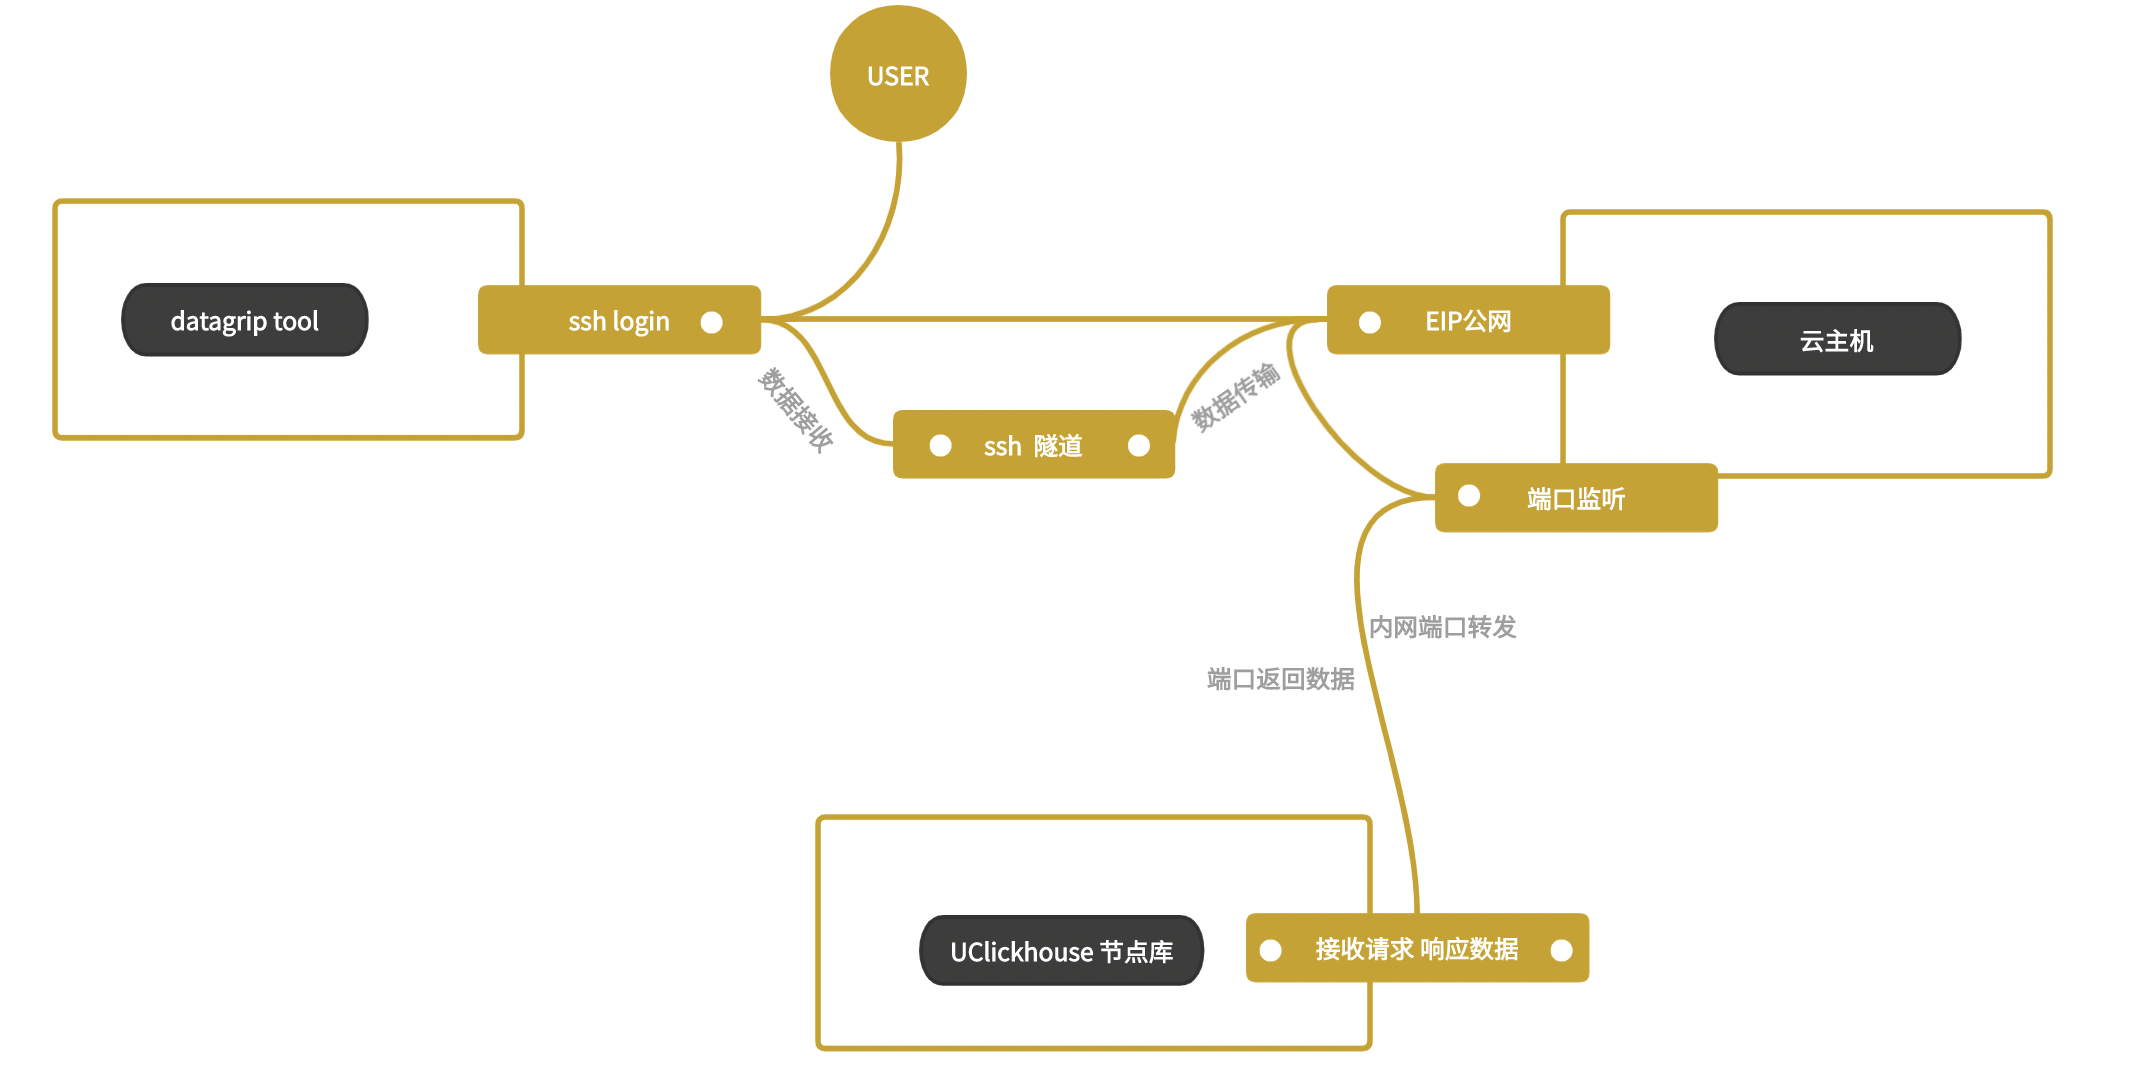
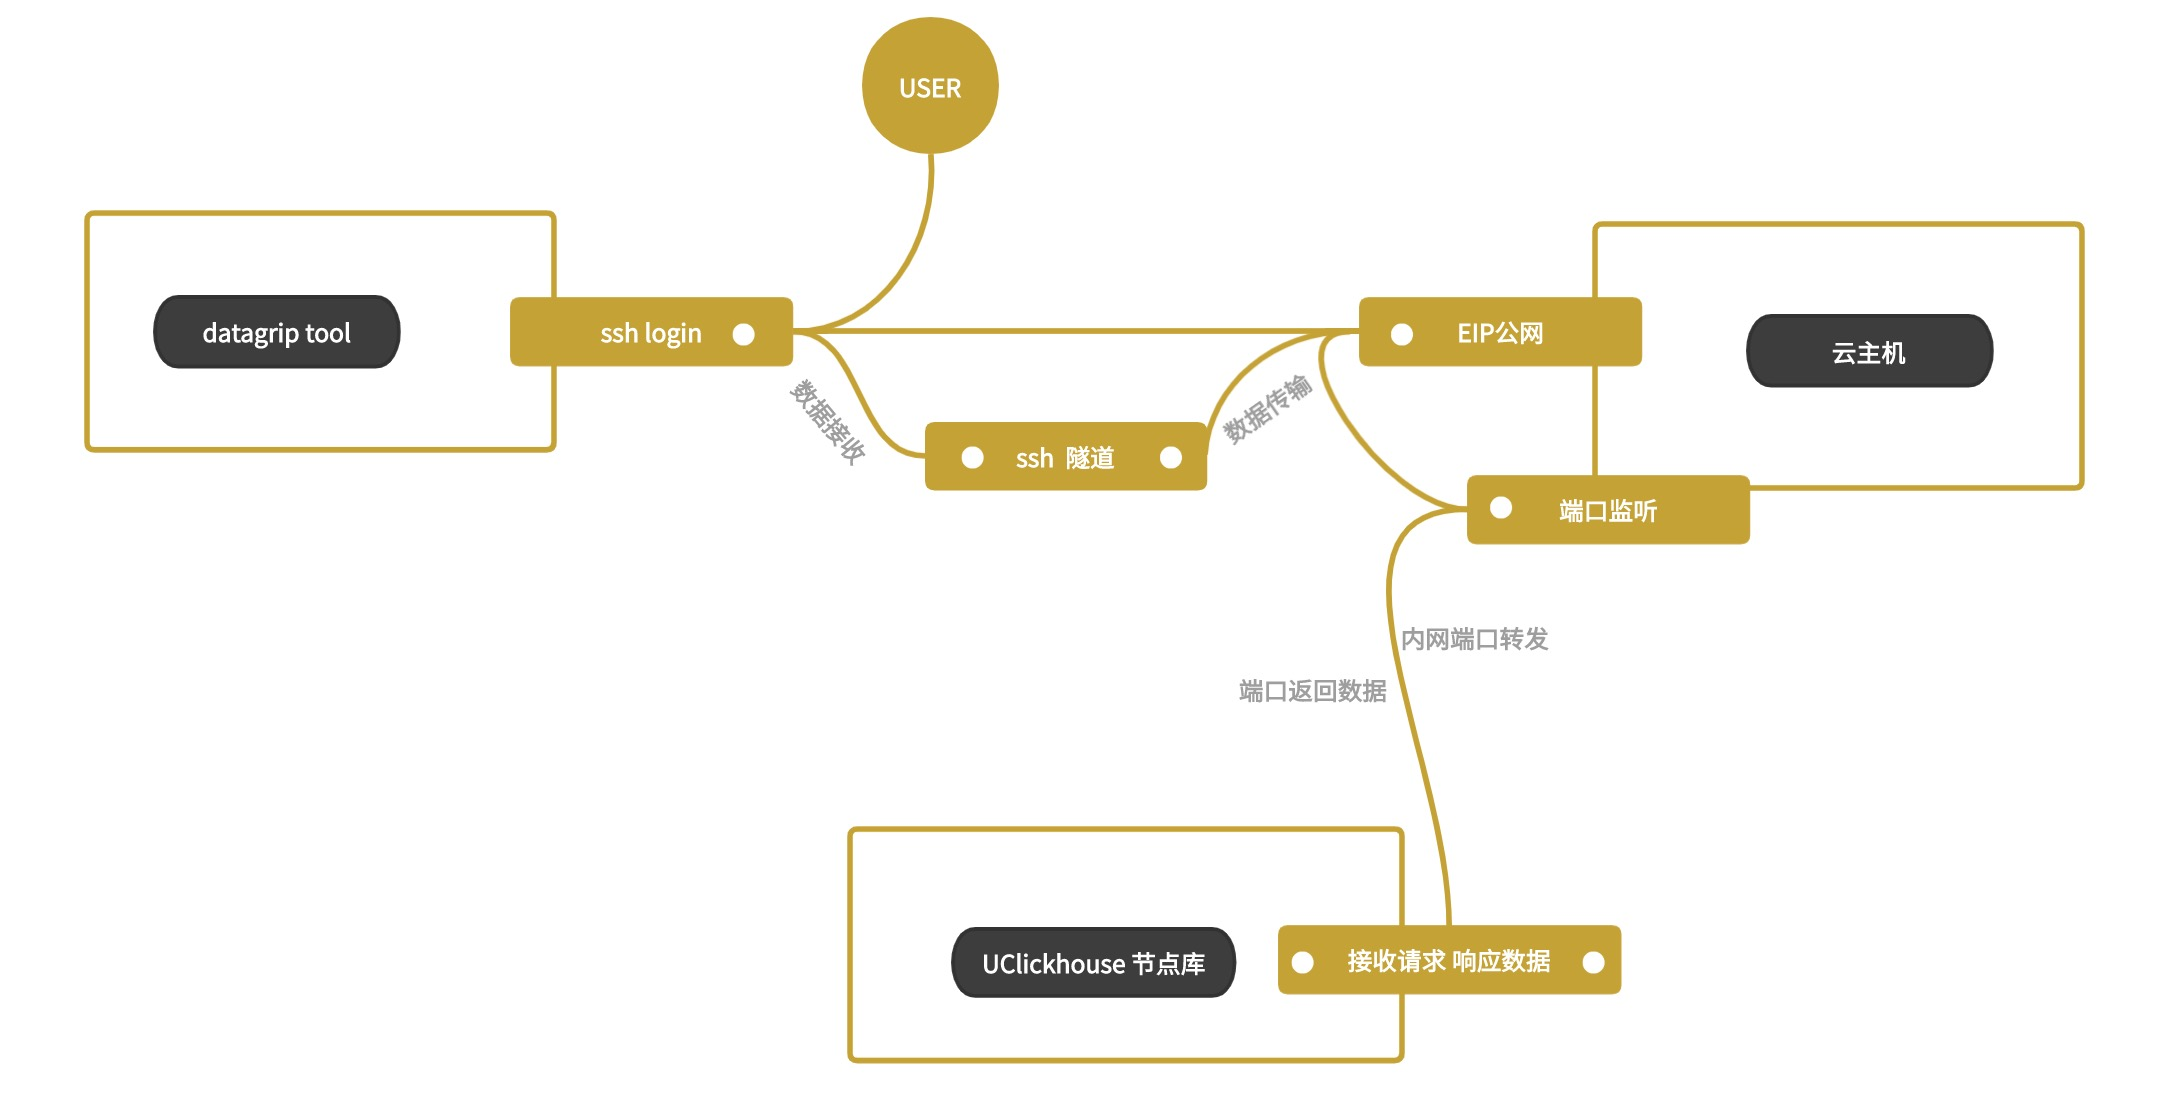
修改文件

Changed region(s): [[0.0, 0.185, 0.9651, 0.9869], [0.3736, 0.0, 0.467, 0.2467]]

diff --git a/operation_guide/connect_cluster/visual_tools.md b/operation_guide/connect_cluster/visual_tools.md
@@ -4,17 +4,19 @@ UClickhouse可以通过第三方客户端工具连接实例，针对有数据可
 
 ### DataGrip简介
 
-[DataGrip](https://www.jetbrains.com/datagrip/) 是JetBrains的数据库IDE，兼容支持连接Clickhouse。 此工具支持ClickHouse语法高亮显示；支持ClickHouse特有的功能，例如嵌套列，表引擎；支持数据编辑等功能。
+[DataGrip](https://www.jetbrains.com/datagrip/) 是JetBrains的数据库IDE，专门支持ClickHouse。 此工具支持ClickHouse语法高亮显示；支持ClickHouse特有的功能，例如嵌套列，表引擎；支持数据编辑等功能
 
 ### 通过SSH隧道连接集群数据库介绍
 
-![image-20220725213304074](../../../udoris/images/client-ck-connect.png)
+![client-ck-connect](../../../../ck-doc/uclickhouse/images/client-ck-connect.png)
 
 说明：
 
-1:需要有一台能够直接通过SSH连接的Linux主机，并且该主机和UClickhouse实例的网络可以相互联通。
+1:需要在UClickhouse集群所在地域（同一网段）下建立一台云主机。
 
-2:UClickhouse节点IP查看：登录UCloud控制台，查看[数据仓库 UClickhouse列表](https://console.ucloud.cn/udw/clickhouse) ，点击详情查看目标实例的节点信息。
+2:UClickhouse节点IP查看：登录UCloud账号进入到[用户控制台](https://passport.ucloud.cn/#login)，在全部产品下搜索或者数据仓库下选择“数据仓库 UDW Clickhouse”，进入到[数据仓库 UClickhouse控制台](https://console.ucloud.cn/udw/clickhouse)。在**集群列表**页面，点击**详情**可查看集群节点列表，列表中已列出节点地址。
+
+3:SSH 隧道能够提供两大功能:（1）加密 SSH Client 端至 SSH Server 端之间的通讯数据（2）突破防火墙的限制完成一些之前无法建立的 TCP 连接加密 SSH Client 端至 SSH Server 端之间的通讯数据
 
 ### 操作步骤
 
@@ -28,9 +30,9 @@ UClickhouse可以通过第三方客户端工具连接实例，针对有数据可
 
      ![image-20220721161619143](../../images/driver-download.png)
 
-  4. 出于安全考虑，UClickHouse实例不支持公网直接连接，因此DataGrip需要通过SSH通道连接UClickHouse实例的节点。DataGrip通过SSH连接UClickHouse节点的方式如下图
+  4. 出于安全考虑，远程主机上的9000端口并没有对外开放，因此DataGrip需要进行ssh通道连接ClickHouse数据库。DataGrip通过ssh连接远程ClickHouse的方式如下图
 
-     (1) 先切到"SSH/SSL"页面，使用ssh连接上准备好的Linux主机，如果登陆云主机是私钥文件，则Auth type 选择 Key pair（OpenSSH or PuTTY）。
+     (1) 先切到"SSH/SSL"页面，使用ssh连接上**同一地域下的云主机**，如果登陆云主机是私钥文件，则Auth type 选择 Key pair（OpenSSH or PuTTY）。
 
      ![image-20220724145958123](../../../../doris-doc/udoris/images/ssh-connect-1.png)
 
@@ -38,7 +40,7 @@ UClickhouse可以通过第三方客户端工具连接实例，针对有数据可
 
      （2）切回"General"页面，在该页面输入集群节点相应的信息。（点击Test Connection 即可）如下图
 
-     节点信息获取：登录UCloud账号进入到[数据仓库 UClickhouse控制台](https://console.ucloud.cn/udw/clickhouse) 查看集群列表。
+     节点信息获取：登录UCloud账号进入到[用户控制台](https://passport.ucloud.cn/#login)，在全部产品下搜索或者数据仓库下选择“数据仓库 UDW Clickhouse”，进入       到[数据仓库 UClickhouse控制台](https://console.ucloud.cn/udw/clickhouse)。在**集群列表**页面，点击**详情**可查看集群节点列表，列表中已列出节点地址
 
      ![image-20220724150954297](../../../../doris-doc/udoris/images/ssh-connect-3.png)
 
@@ -63,7 +65,7 @@ UClickhouse可以通过第三方客户端工具连接实例，针对有数据可
 
 | 参数                | 说明                                                         |
 | ------------------- | ------------------------------------------------------------ |
-| host                | 能够直接通过SSH连接的Linux主机，并且该主机和UClickhouse实例的网络可以相互联通 |
+| host                | UClickhouse集群所在地域（同一网段）下建立的一台云主机IP地址  |
 | port                | 22                                                           |
 | user                | 登陆用户名，默认root                                         |
 | Authentication type | 如果登陆云主机是私钥文件,则Auth type 选择 Key pair（OpenSSH or PuTTY）<br />登陆云主机是密码，则Auth type选择Password |
